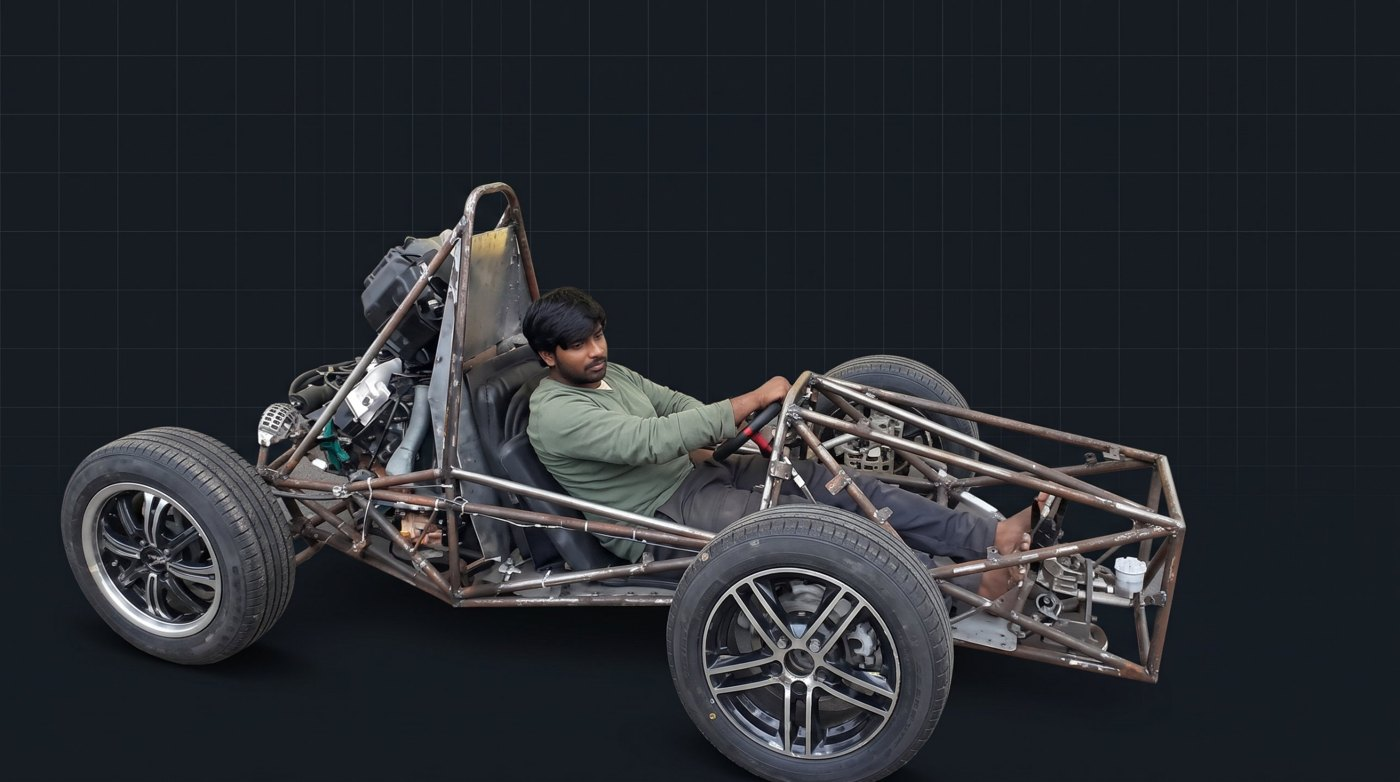
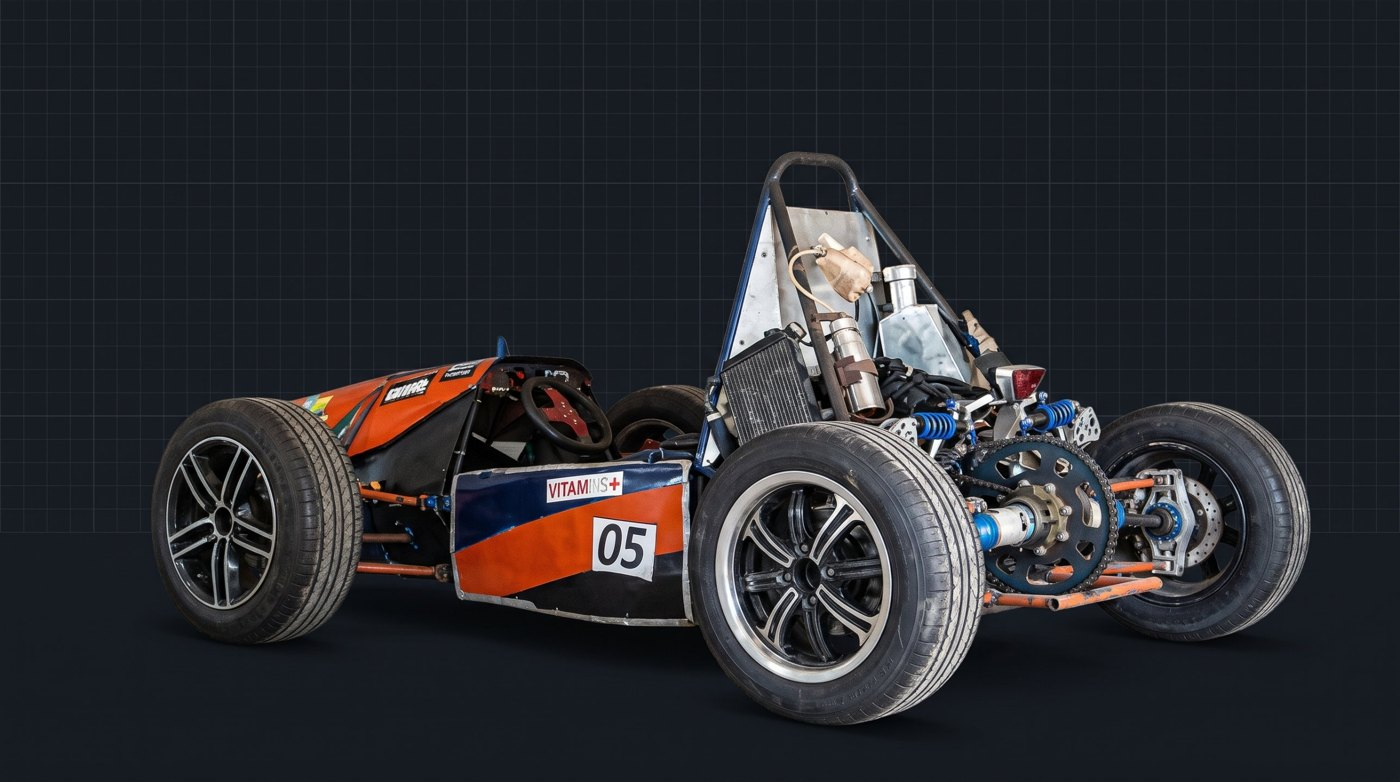
Add files via upload

Changed region(s): [[0.0307, 0.1841, 0.9521, 1.0]]

diff --git a/index.html b/index.html
@@ -4,7 +4,7 @@
 <meta charset="UTF-8">
 <meta name="viewport" content="width=device-width, initial-scale=1">
 <title>Kishore Yelchuri — Mechanical Engineer</title>
-<meta name="description" content="Portfolio of Lohit Naga Kishore Yelchuri, mechanical engineer specializing in structural design, FEA and vehicle systems.">
+<meta name="description" content="Portfolio of Kishore Yelchuri, mechanical engineer specializing in structural design, FEA and vehicle systems.">
 <link rel="preconnect" href="https://fonts.googleapis.com">
 <link rel="preconnect" href="https://fonts.gstatic.com" crossorigin>
 <link href="https://fonts.googleapis.com/css2?family=Space+Grotesk:wght@400;500;700&family=Inter:wght@400;500;600&family=JetBrains+Mono:wght@400;500&display=swap" rel="stylesheet">
@@ -208,8 +208,8 @@
     <div class="links" onclick="this.classList.remove('show')">
       <a href="#about">About</a>
       <a href="#experience">Experience</a>
-      <a href="#projects">Projects</a>
       <a href="#skills">Skills</a>
+      <a href="#projects">Projects</a>
       <a href="#resume">Resume</a>
       <a href="#contact">Contact</a>
     </div>
@@ -219,7 +219,7 @@
 <header class="hero wrap" id="top">
   <span class="tag mono">// Mechanical Engineer · Farmington Hills, MI</span>
   <h1>I design structures that are <em>lighter, stronger</em> and built to ship.</h1>
-  <p class="lead">Hi, I'm Lohit Naga Kishore Yelchuri. I take vehicle and product hardware from CAD concept through FEA validation, prototype builds and supplier-ready drawings.</p>
+  <p class="lead">Hi, I'm Kishore Yelchuri. I take vehicle and product hardware all the way from concept to CAD, FEA, prototyping and testing.</p>
   <div class="btns">
     <a href="#projects" class="btn primary">View my work →</a>
     <a href="assets/docs/Kishore_Yelchuri_Resume.pdf" class="btn ghost" target="_blank" rel="noopener">Download resume</a>
@@ -276,7 +276,7 @@
       <div class="job reveal">
         <div class="job-top"><h3>Mechanical Engineering Intern <span>· Our Next Energy</span></h3><span class="when mono">May 2023 – Aug 2023</span></div>
         <ul>
-          <li>Redesigned battery enclosure geometry with Tier 1 supplier DFM feedback, <b>cutting enclosure weight by 20%</b>.</li>
+          <li>Redesigned battery BMS enclosure geometry with Tier 1 supplier DFM feedback, <b>cutting enclosure weight by 20%</b>.</li>
           <li>Worst-case and RSS stack-ups plus ANSYS analysis defined bracket and fastener specs for a <b>50% gain in torque retention</b>.</li>
           <li>Built a strain-gauged PCB test fixture and revised supports to keep board strain under 450 µε.</li>
           <li>Integrated busbars, PCBs and cooling plates in a tight envelope, <b>reducing late ECOs by 30%</b> and peak module temperature by 3 °C.</li>
@@ -294,9 +294,22 @@
   </div>
 </section>
 
+<section id="skills">
+  <div class="wrap">
+    <div class="sec-head reveal"><span class="mono">03 / skills</span><h2>Toolbox</h2></div>
+    <div class="skills">
+      <div class="skill reveal"><h3>CAD &amp; Product Development</h3><div class="chips"><span class="chip">SolidWorks</span><span class="chip">SolidWorks PDM</span><span class="chip">Siemens NX</span><span class="chip">CATIA V5</span><span class="chip">Creo</span><span class="chip">Fusion 360</span><span class="chip">DFM / DFA</span></div></div>
+      <div class="skill reveal"><h3>Analysis &amp; Engineering Methods</h3><div class="chips"><span class="chip">Abaqus CAE</span><span class="chip">ANSYS Workbench</span><span class="chip">Nonlinear FEA</span><span class="chip">GD&amp;T</span><span class="chip">ASME Y14.5</span><span class="chip">DFMEA</span><span class="chip">Tolerance stack-ups</span></div></div>
+      <div class="skill reveal"><h3>Prototyping, Manufacturing &amp; Test</h3><div class="chips"><span class="chip">CNC machining</span><span class="chip">Welding</span><span class="chip">Additive manufacturing</span><span class="chip">Fixture design</span><span class="chip">Material testing</span><span class="chip">First Article Inspection</span></div></div>
+      <div class="skill reveal"><h3>Programming</h3><div class="chips"><span class="chip">Python</span><span class="chip">Abaqus scripting</span><span class="chip">Parametric studies</span><span class="chip">Genetic algorithms</span><span class="chip">LabVIEW DAQ</span></div></div>
+    </div>
+
+  </div>
+</section>
+
 <section id="projects">
   <div class="wrap">
-    <div class="sec-head reveal"><span class="mono">03 / projects</span><h2>Selected work</h2></div>
+    <div class="sec-head reveal"><span class="mono">04 / projects</span><h2>Selected work</h2></div>
     <div class="filters reveal">
       <button class="on" data-f="all">All</button>
       <button data-f="industry">Industry</button>
@@ -308,17 +321,9 @@
   </div>
 </section>
 
-<section id="skills">
+<section id="education">
   <div class="wrap">
-    <div class="sec-head reveal"><span class="mono">04 / skills</span><h2>Toolbox</h2></div>
-    <div class="skills">
-      <div class="skill reveal"><h3>CAD &amp; Product Development</h3><div class="chips"><span class="chip">SolidWorks</span><span class="chip">SolidWorks PDM</span><span class="chip">Siemens NX</span><span class="chip">CATIA V5</span><span class="chip">Creo</span><span class="chip">Fusion 360</span><span class="chip">DFM / DFA</span></div></div>
-      <div class="skill reveal"><h3>Analysis &amp; Engineering Methods</h3><div class="chips"><span class="chip">Abaqus CAE</span><span class="chip">ANSYS Workbench</span><span class="chip">Nonlinear FEA</span><span class="chip">GD&amp;T</span><span class="chip">ASME Y14.5</span><span class="chip">DFMEA</span><span class="chip">Tolerance stack-ups</span></div></div>
-      <div class="skill reveal"><h3>Prototyping, Manufacturing &amp; Test</h3><div class="chips"><span class="chip">CNC machining</span><span class="chip">Welding</span><span class="chip">Additive manufacturing</span><span class="chip">Fixture design</span><span class="chip">Material testing</span><span class="chip">First Article Inspection</span></div></div>
-      <div class="skill reveal"><h3>Programming</h3><div class="chips"><span class="chip">Python</span><span class="chip">Abaqus scripting</span><span class="chip">Parametric studies</span><span class="chip">Genetic algorithms</span><span class="chip">LabVIEW DAQ</span></div></div>
-    </div>
-
-    <div class="sec-head reveal" style="margin-top:80px"><span class="mono">05 / education</span><h2>Education</h2></div>
+    <div class="sec-head reveal"><span class="mono">05 / education</span><h2>Education</h2></div>
     <div class="edu">
       <div class="job reveal">
         <div class="job-top"><h3>Texas A&amp;M University</h3><span class="when mono">Jan 2022 – Dec 2023</span></div>
@@ -328,7 +333,7 @@
       <div class="job reveal">
         <div class="job-top"><h3>Osmania University, India</h3><span class="when mono">Aug 2017 – Jul 2021</span></div>
         <p style="color:var(--text)">Bachelor of Engineering, Mechanical Engineering</p>
-        <p style="color:var(--muted);font-size:.92rem;margin-top:8px">Design Head, SAE Collegiate Team (MVSR Engineering College). Mechanical Design, Strength of Materials, Heat Transfer, Fluid Mechanics</p>
+        <p style="color:var(--muted);font-size:.92rem;margin-top:8px">Mechanical Design, Strength of Materials, Heat Transfer, Fluid Mechanics</p>
       </div>
     </div>
   </div>
@@ -374,7 +379,7 @@
   </div>
 </section>
 
-<footer>© <span id="yr"></span> Lohit Naga Kishore Yelchuri</footer>
+<footer>© <span id="yr"></span> Kishore Yelchuri</footer>
 
 <div class="modal" id="modal" onclick="if(event.target===this)closeModal()">
   <div class="modal-box" role="dialog" aria-modal="true">
@@ -388,11 +393,11 @@
 
 <script>
 const projects = [
-  {id:"one-energy", cat:"industry", label:"Industry · EV Battery", title:"Battery Enclosure Redesign — Our Next Energy",
-   blurb:"Lighter, more manufacturable EV battery enclosure shaped by supplier DFM feedback.",
+  {id:"one-energy", cat:"industry", label:"Industry · EV Battery", title:"Battery BMS Enclosure Redesign — Our Next Energy",
+   blurb:"Lighter, more manufacturable EV battery BMS enclosure shaped by supplier DFM feedback.",
    tags:["SolidWorks","GD&T","ANSYS","DFM"],
    sections:{"What I did":[
-     "Redesigned battery enclosure geometry for mass manufacturing using GD&T and DFM input from Tier 1 sheet metal and injection-molding suppliers — 20% lighter.",
+     "Redesigned battery BMS enclosure geometry for mass manufacturing using GD&T and DFM input from Tier 1 sheet metal and injection-molding suppliers — 20% lighter.",
      "Ran worst-case and RSS tolerance stack-ups and FEA to refine bracket geometry and fastener setup, improving joint reliability / torque retention by 50%.",
      "Built a strain-gauged PCB test setup, located high-stress areas and adjusted supports to keep strain under 450 µε.",
      "Reworked electromechanical layout (busbars, PCBs, cooling plates) based on thermal testing, lowering peak temperature by 3 °C."]}},
@@ -465,7 +470,7 @@ const projects = [
    "Solution":["Designed fully in SolidWorks, exported to STEP and 3D-printed primarily in PLA and ABS."]}}
 ];
 
-const gallery = {"efficycle":3,"catapult":3,"gas-leak":2,"bistable-gripper":4,"rocket-nozzle":5,"connecting-rod":3,"airframe-panel":6,"sheet-forming":4,"supra-sae":3,"seating-assist":2,"scissor-jack":3,"one-energy":4};
+const gallery = {"efficycle":3,"catapult":3,"gas-leak":2,"bistable-gripper":4,"rocket-nozzle":5,"connecting-rod":3,"airframe-panel":6,"sheet-forming":4,"supra-sae":5,"seating-assist":2,"scissor-jack":3,"one-energy":4};
 projects.forEach(p=>{ const n=gallery[p.id]; p.images = n ? Array.from({length:n},(_,i)=>`assets/img/${p.id}/${i+1}.jpg`) : [`assets/img/${p.id}.jpg`]; });
 
 const grid = document.getElementById('grid');
